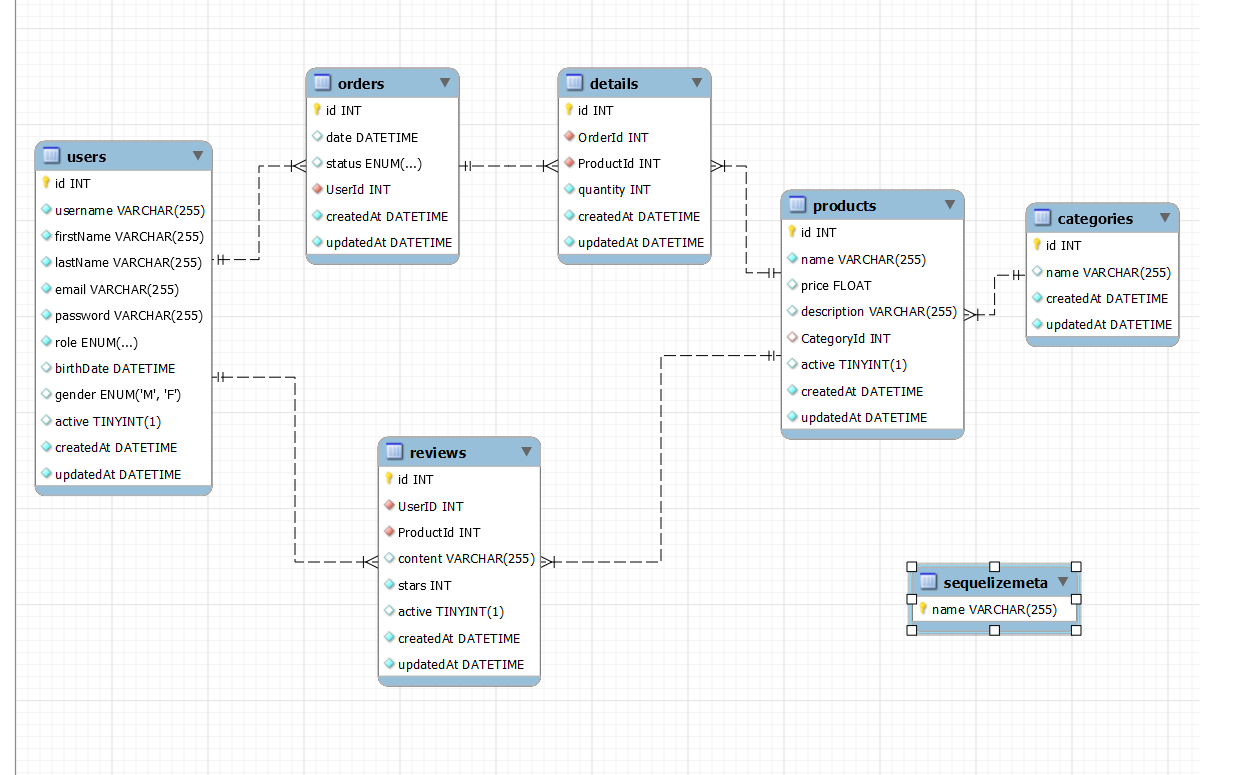
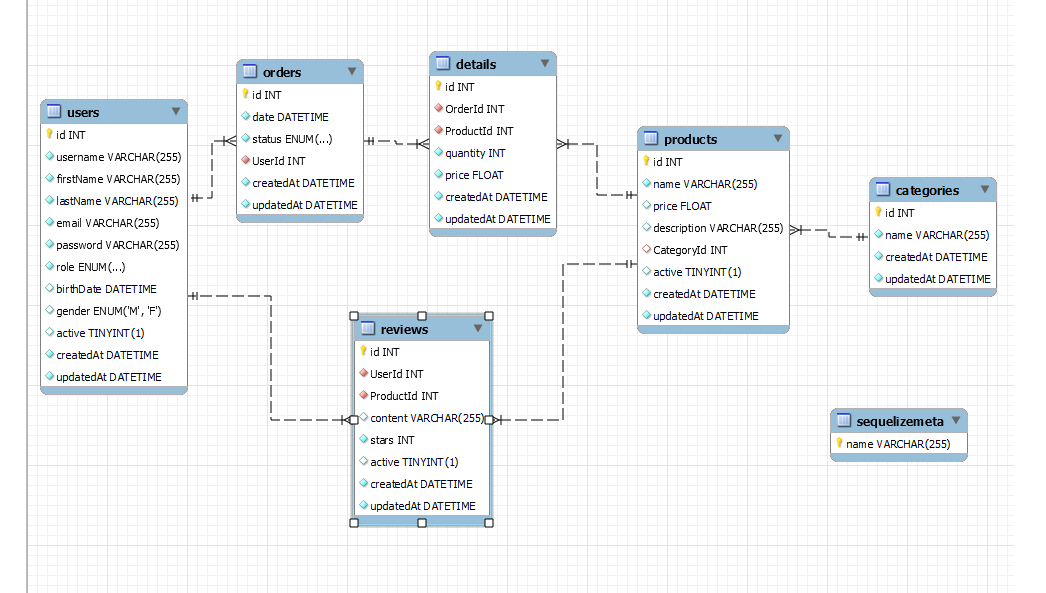
Update migrations

Changed region(s): [[0.0, 0.0, 0.979, 1.0], [0.2447, 0.516, 0.5507, 0.9106], [0.7342, 0.6678, 0.9484, 0.8196]]

diff --git a/seeders/20220522110007-demo-detail.js b/seeders/20220522110007-demo-detail.js
@@ -12,33 +12,33 @@ module.exports = {
      * }], {});
     */
     return queryInterface.bulkInsert('details', [
-      { OrderId: 1, ProductId: 1, quantity: 2, createdAt: new Date(), updatedAt: new Date() },
-      { OrderId: 2, ProductId: 1, quantity: 3, createdAt: new Date(), updatedAt: new Date() },
-      { OrderId: 3, ProductId: 1, quantity: 1, createdAt: new Date(), updatedAt: new Date() },
-      { OrderId: 4, ProductId: 1, quantity: 3, createdAt: new Date(), updatedAt: new Date() },
-      { OrderId: 5, ProductId: 2, quantity: 3, createdAt: new Date(), updatedAt: new Date() },
-      { OrderId: 6, ProductId: 2, quantity: 2, createdAt: new Date(), updatedAt: new Date() },
-      { OrderId: 7, ProductId: 2, quantity: 1, createdAt: new Date(), updatedAt: new Date() },
-      { OrderId: 8, ProductId: 2, quantity: 1, createdAt: new Date(), updatedAt: new Date() },
-      { OrderId: 9, ProductId: 3, quantity: 1, createdAt: new Date(), updatedAt: new Date() },
-      { OrderId: 10, ProductId: 3, quantity: 3, createdAt: new Date(), updatedAt: new Date() },
-      { OrderId: 1, ProductId: 3, quantity: 2, createdAt: new Date(), updatedAt: new Date() },
-      { OrderId: 2, ProductId: 3, quantity: 3, createdAt: new Date(), updatedAt: new Date() },
-      { OrderId: 3, ProductId: 4, quantity: 2, createdAt: new Date(), updatedAt: new Date() },
-      { OrderId: 4, ProductId: 4, quantity: 1, createdAt: new Date(), updatedAt: new Date() },
-      { OrderId: 5, ProductId: 4, quantity: 1, createdAt: new Date(), updatedAt: new Date() },
-      { OrderId: 6, ProductId: 4, quantity: 1, createdAt: new Date(), updatedAt: new Date() },
-      { OrderId: 7, ProductId: 5, quantity: 2, createdAt: new Date(), updatedAt: new Date() },
-      { OrderId: 8, ProductId: 5, quantity: 2, createdAt: new Date(), updatedAt: new Date() },
-      { OrderId: 9, ProductId: 5, quantity: 3, createdAt: new Date(), updatedAt: new Date() },
-      { OrderId: 10, ProductId: 5, quantity: 3, createdAt: new Date(), updatedAt: new Date() },
-      { OrderId: 1, ProductId: 6, quantity: 1, createdAt: new Date(), updatedAt: new Date() },
-      { OrderId: 2, ProductId: 6, quantity: 1, createdAt: new Date(), updatedAt: new Date() },
-      { OrderId: 3, ProductId: 6, quantity: 2, createdAt: new Date(), updatedAt: new Date() },
-      { OrderId: 4, ProductId: 6, quantity: 2, createdAt: new Date(), updatedAt: new Date() },
-      { OrderId: 5, ProductId: 7, quantity: 3, createdAt: new Date(), updatedAt: new Date() },
-      { OrderId: 6, ProductId: 7, quantity: 3, createdAt: new Date(), updatedAt: new Date() },
-      { OrderId: 7, ProductId: 7, quantity: 1, createdAt: new Date(), updatedAt: new Date() }
+      { OrderId: 1, ProductId: 1, quantity: 2, price: 11, createdAt: new Date(), updatedAt: new Date() },
+      { OrderId: 2, ProductId: 1, quantity: 3, price: 11, createdAt: new Date(), updatedAt: new Date() },
+      { OrderId: 3, ProductId: 1, quantity: 1, price: 11, createdAt: new Date(), updatedAt: new Date() },
+      { OrderId: 4, ProductId: 1, quantity: 3, price: 11, createdAt: new Date(), updatedAt: new Date() },
+      { OrderId: 5, ProductId: 2, quantity: 3, price: 11, createdAt: new Date(), updatedAt: new Date() },
+      { OrderId: 6, ProductId: 2, quantity: 2, price: 11, createdAt: new Date(), updatedAt: new Date() },
+      { OrderId: 7, ProductId: 2, quantity: 1, price: 11, createdAt: new Date(), updatedAt: new Date() },
+      { OrderId: 8, ProductId: 2, quantity: 1, price: 11, createdAt: new Date(), updatedAt: new Date() },
+      { OrderId: 9, ProductId: 3, quantity: 1, price: 11, createdAt: new Date(), updatedAt: new Date() },
+      { OrderId: 10, ProductId: 3, quantity: 3, price: 11, createdAt: new Date(), updatedAt: new Date() },
+      { OrderId: 1, ProductId: 3, quantity: 2, price: 11, createdAt: new Date(), updatedAt: new Date() },
+      { OrderId: 2, ProductId: 3, quantity: 3, price: 11, createdAt: new Date(), updatedAt: new Date() },
+      { OrderId: 3, ProductId: 4, quantity: 2, price: 11, createdAt: new Date(), updatedAt: new Date() },
+      { OrderId: 4, ProductId: 4, quantity: 1, price: 11, createdAt: new Date(), updatedAt: new Date() },
+      { OrderId: 5, ProductId: 4, quantity: 1, price: 11, createdAt: new Date(), updatedAt: new Date() },
+      { OrderId: 6, ProductId: 4, quantity: 1, price: 11, createdAt: new Date(), updatedAt: new Date() },
+      { OrderId: 7, ProductId: 5, quantity: 2, price: 11, createdAt: new Date(), updatedAt: new Date() },
+      { OrderId: 8, ProductId: 5, quantity: 2, price: 11, createdAt: new Date(), updatedAt: new Date() },
+      { OrderId: 9, ProductId: 5, quantity: 3, price: 11, createdAt: new Date(), updatedAt: new Date() },
+      { OrderId: 10, ProductId: 5, quantity: 3, price: 11, createdAt: new Date(), updatedAt: new Date() },
+      { OrderId: 1, ProductId: 6, quantity: 1, price: 11, createdAt: new Date(), updatedAt: new Date() },
+      { OrderId: 2, ProductId: 6, quantity: 1, price: 11, createdAt: new Date(), updatedAt: new Date() },
+      { OrderId: 3, ProductId: 6, quantity: 2, price: 11, createdAt: new Date(), updatedAt: new Date() },
+      { OrderId: 4, ProductId: 6, quantity: 2, price: 11, createdAt: new Date(), updatedAt: new Date() },
+      { OrderId: 5, ProductId: 7, quantity: 3, price: 11, createdAt: new Date(), updatedAt: new Date() },
+      { OrderId: 6, ProductId: 7, quantity: 3, price: 11, createdAt: new Date(), updatedAt: new Date() },
+      { OrderId: 7, ProductId: 7, quantity: 1, price: 11, createdAt: new Date(), updatedAt: new Date() }
     ]);
   },
 

diff --git a/migrations/20220521154859-create-detail.js b/migrations/20220521154859-create-detail.js
@@ -9,18 +9,22 @@ module.exports = {
         type: Sequelize.INTEGER
       },
       OrderId: {
-        type: Sequelize.INTEGER,
         allowNull: false,
+        type: Sequelize.INTEGER,
         references: { model: 'orders', key: 'id'}
       },
       ProductId: {
-        type: Sequelize.INTEGER,
         allowNull: false,
+        type: Sequelize.INTEGER,
         references: { model: 'products', key: 'id'}
       },
       quantity: {
         allowNull: false,
         type: Sequelize.INTEGER
+      },
+      price: {
+        allowNull: false,
+        type: Sequelize.FLOAT
       },
       createdAt: {
         allowNull: false,

diff --git a/models/product.js b/models/product.js
@@ -12,6 +12,7 @@ module.exports = (sequelize, DataTypes) => {
       // define association here
       Product.belongsTo(models.Category);
       Product.belongsToMany(models.Order, { through: models.Detail });
+      Product.belongsToMany(models.User, { through: models.Review });
     }
   }
   Product.init(
@@ -20,6 +21,7 @@ module.exports = (sequelize, DataTypes) => {
       price: DataTypes.FLOAT,
       description: DataTypes.STRING,
       CategoryId: DataTypes.INTEGER,
+      active: DataTypes.BOOLEAN
     },
     {
       sequelize,

diff --git a/models/review.js b/models/review.js
@@ -11,11 +11,16 @@ module.exports = (sequelize, DataTypes) => {
      */
     static associate(models) {
       // define association here
+      Review.belongsTo(models.User);
+      Review.belongsTo(models.Product);
     }
   }
   Review.init({
     UserId: DataTypes.INTEGER,
-    ProductId: DataTypes.INTEGER
+    ProductId: DataTypes.INTEGER,
+    content: DataTypes.STRING,
+    stars: DataTypes.INTEGER,
+    active: DataTypes.BOOLEAN
   }, {
     sequelize,
     modelName: 'Review',

diff --git a/migrations/20220521154857-create-order.js b/migrations/20220521154857-create-order.js
@@ -9,14 +9,16 @@ module.exports = {
         type: Sequelize.INTEGER
       },
       date: {
+        allowNull: false,
         type: Sequelize.DATE
       },
       status: {
+        allowNull: false,
         type: Sequelize.ENUM("open", "paid", "sent", "delivered", "cancelled")
       },
       UserId: {
-        type: Sequelize.INTEGER,
         allowNull: false,
+        type: Sequelize.INTEGER,
         references: { model: 'users', key: 'id'}
       },
       createdAt: {

diff --git a/models/order.js b/models/order.js
@@ -10,10 +10,9 @@ module.exports = (sequelize, DataTypes) => {
      * The `models/index` file will call this method automatically.
      */
     static associate(models) {
+      // define association here
       Order.belongsTo(models.User);
       Order.belongsToMany(models.Product, { through: models.Detail });
-      Order.belongsToMany(models.User, { through: models.Review });
-      // define association here
     }
   }
   Order.init({

diff --git a/models/detail.js b/models/detail.js
@@ -18,7 +18,8 @@ module.exports = (sequelize, DataTypes) => {
   Detail.init({
     OrderId: DataTypes.INTEGER,
     ProductId: DataTypes.INTEGER,
-    quantity: DataTypes.INTEGER
+    quantity: DataTypes.INTEGER,
+    price: DataTypes.FLOAT
   }, {
     sequelize,
     modelName: 'Detail',

diff --git a/migrations/20220521154927-create-review.js b/migrations/20220521154927-create-review.js
@@ -22,8 +22,8 @@ module.exports = {
         type: Sequelize.STRING
       },
       stars: {
-        type: Sequelize.INTEGER,
         allowNull: false,
+        type: Sequelize.INTEGER,
         validate: {
           min: 1,
           max: 5

diff --git a/migrations/20220521154757-create-category.js b/migrations/20220521154757-create-category.js
@@ -9,6 +9,7 @@ module.exports = {
         type: Sequelize.INTEGER
       },
       name: {
+        allowNull: false,
         type: Sequelize.STRING
       },
       createdAt: {

diff --git a/README.md b/README.md
@@ -8,13 +8,13 @@ sequelize model:generate --name User --attributes username:string,firstName:stri
 
 sequelize model:generate --name Category --attributes name:string
 
-sequelize model:generate --name Product --attributes name:string,price:float,description:string,CategoryId:integer
+sequelize model:generate --name Product --attributes name:string,price:float,description:string,CategoryId:integer,active:boolean
 
 sequelize model:generate --name Order --attributes date:date,status:enum,UserId:integer
 
-sequelize model:generate --name Detail --attributes OrderId:integer,ProductId:integer,quantity:integer
+sequelize model:generate --name Detail --attributes OrderId:integer,ProductId:integer,quantity:integer,price:float
 
-sequelize model:generate --name Review --attributes UserID:integer,ProductId:integer,content:string,starts:integer
+sequelize model:generate --name Review --attributes UserID:integer,ProductId:integer,content:string,starts:integer,active:boolean
 ```
 
 Manually add the ENUM values:
